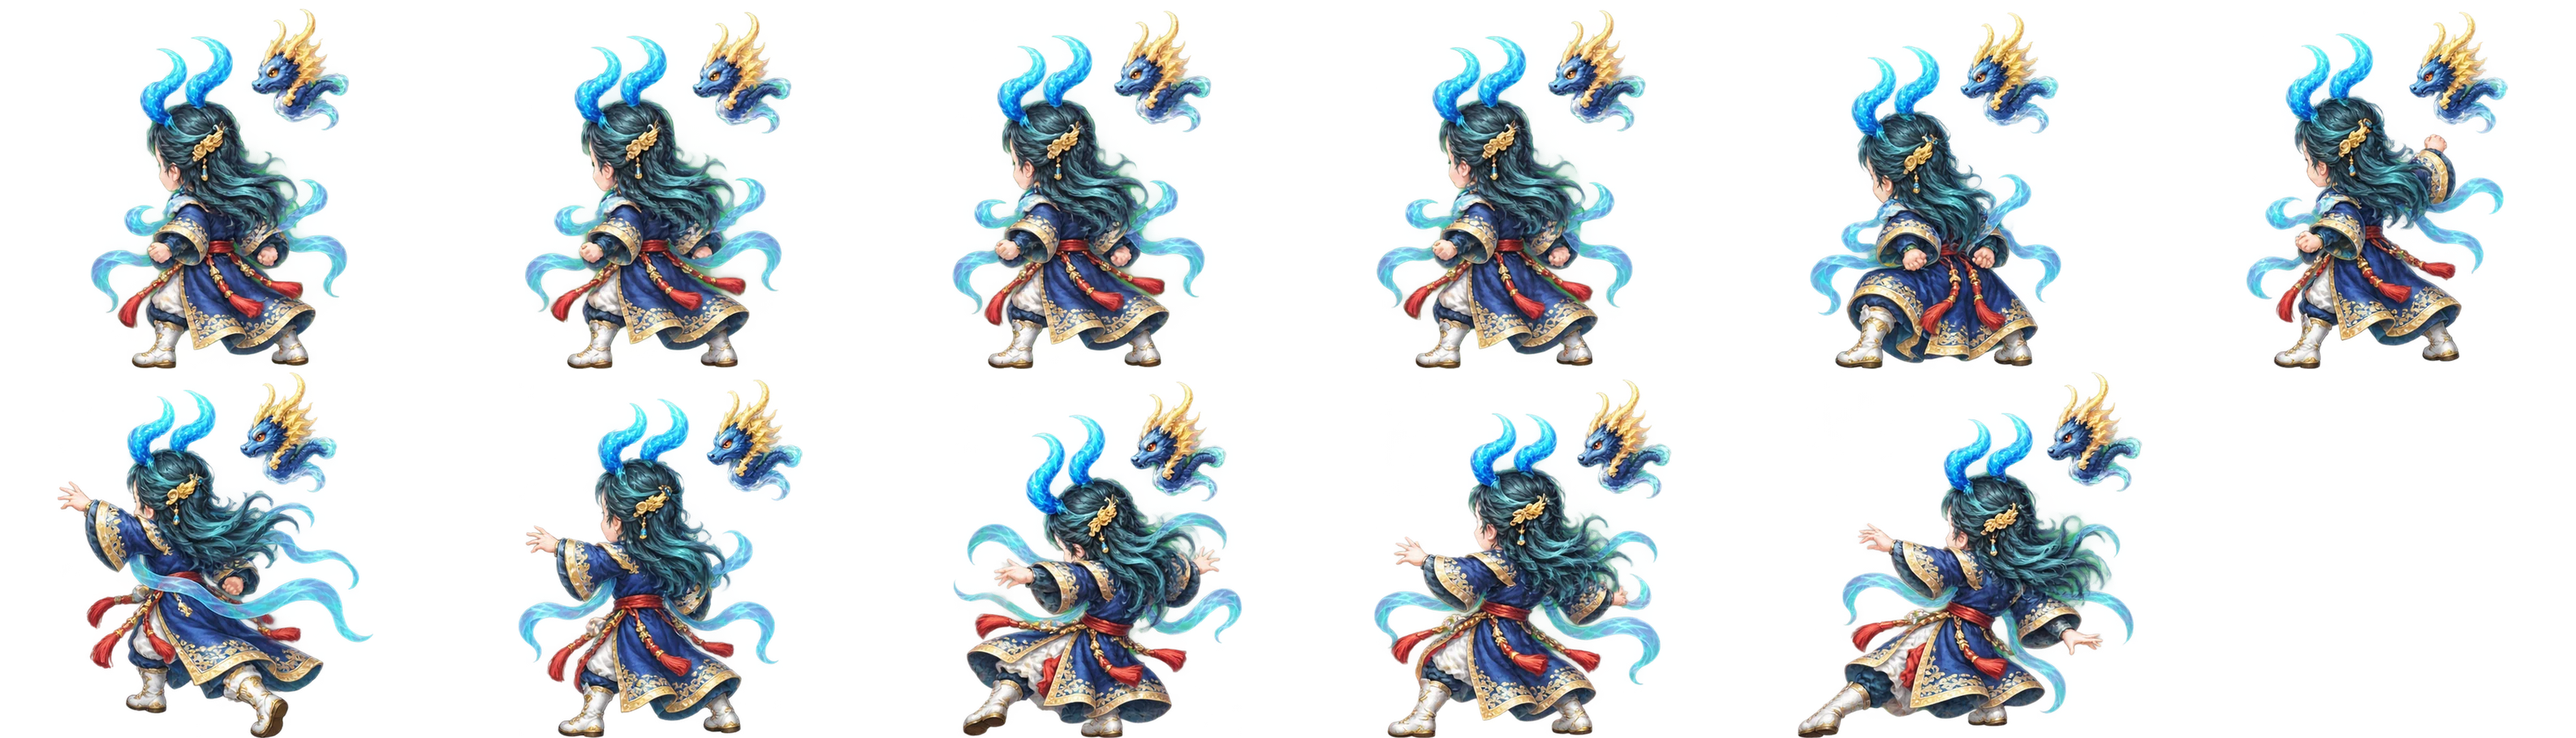
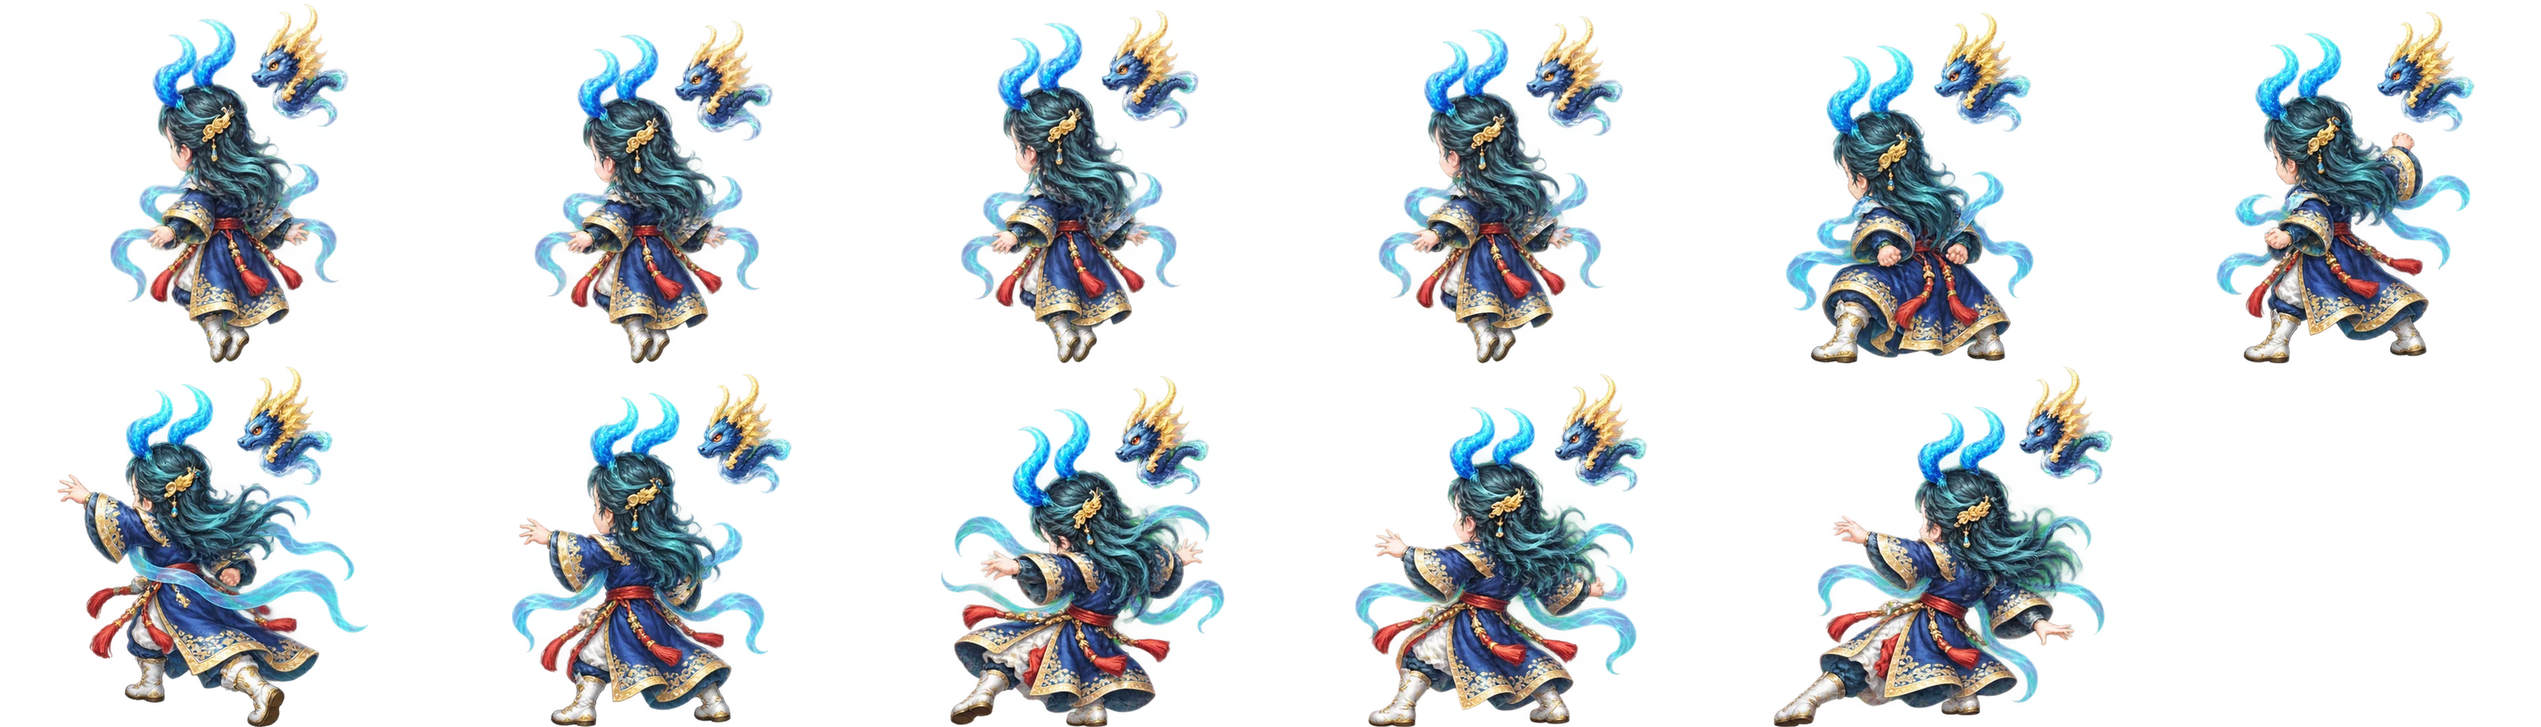
重建：青龙仙童并腿待机图集
Claude-Session: https://claude.ai/code/session_01Ug7SvjxsTvGWtWQTYLfcGg

diff --git a/js/assets.js b/js/assets.js
@@ -583,12 +583,12 @@ window.ASSETS = {
    181.9
   ],
   "b_ss_1227": [
-   102.2,
+   95.6,
    142
   ],
   "bp_ss_1227": [
-   169.7,
-   146.0
+   170.2,
+   146.1
   ],
   "pfx_ss_1227": [
    184.1,
@@ -1485,9 +1485,9 @@ window.ASSETS = {
    "sheet": "bp_ss_1227",
    "cols": 6,
    "rows": 2,
-   "cw": 169.7,
-   "ch": 146.0,
-   "ox": 84.9,
+   "cw": 170.2,
+   "ch": 146.1,
+   "ox": 85.1,
    "by": 0,
    "H": 142,
    "seq": {
